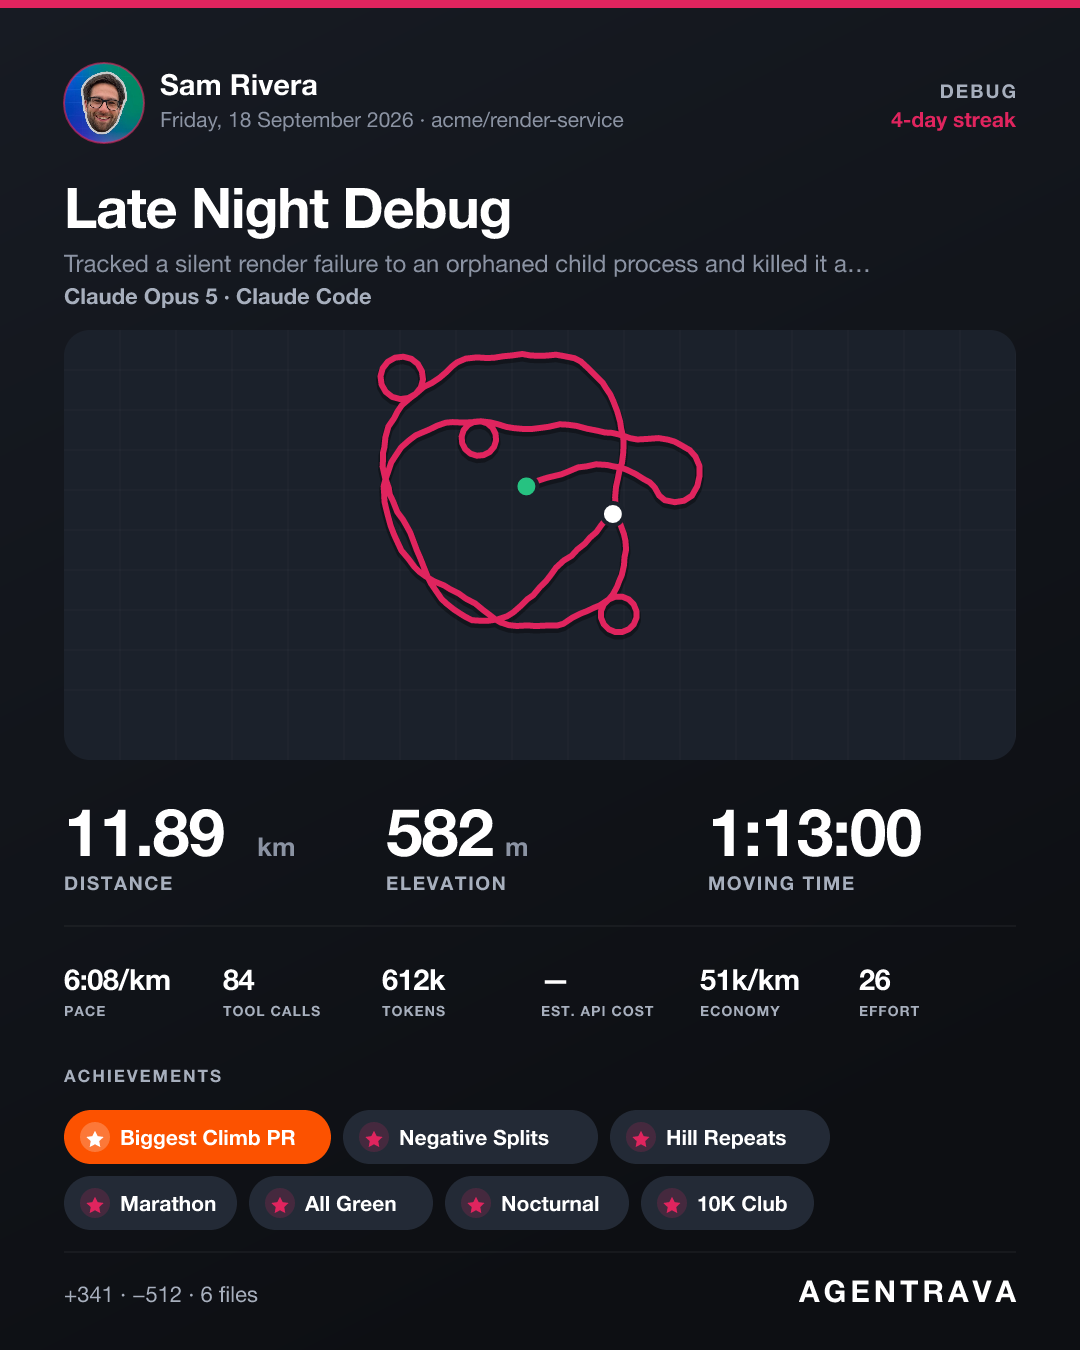
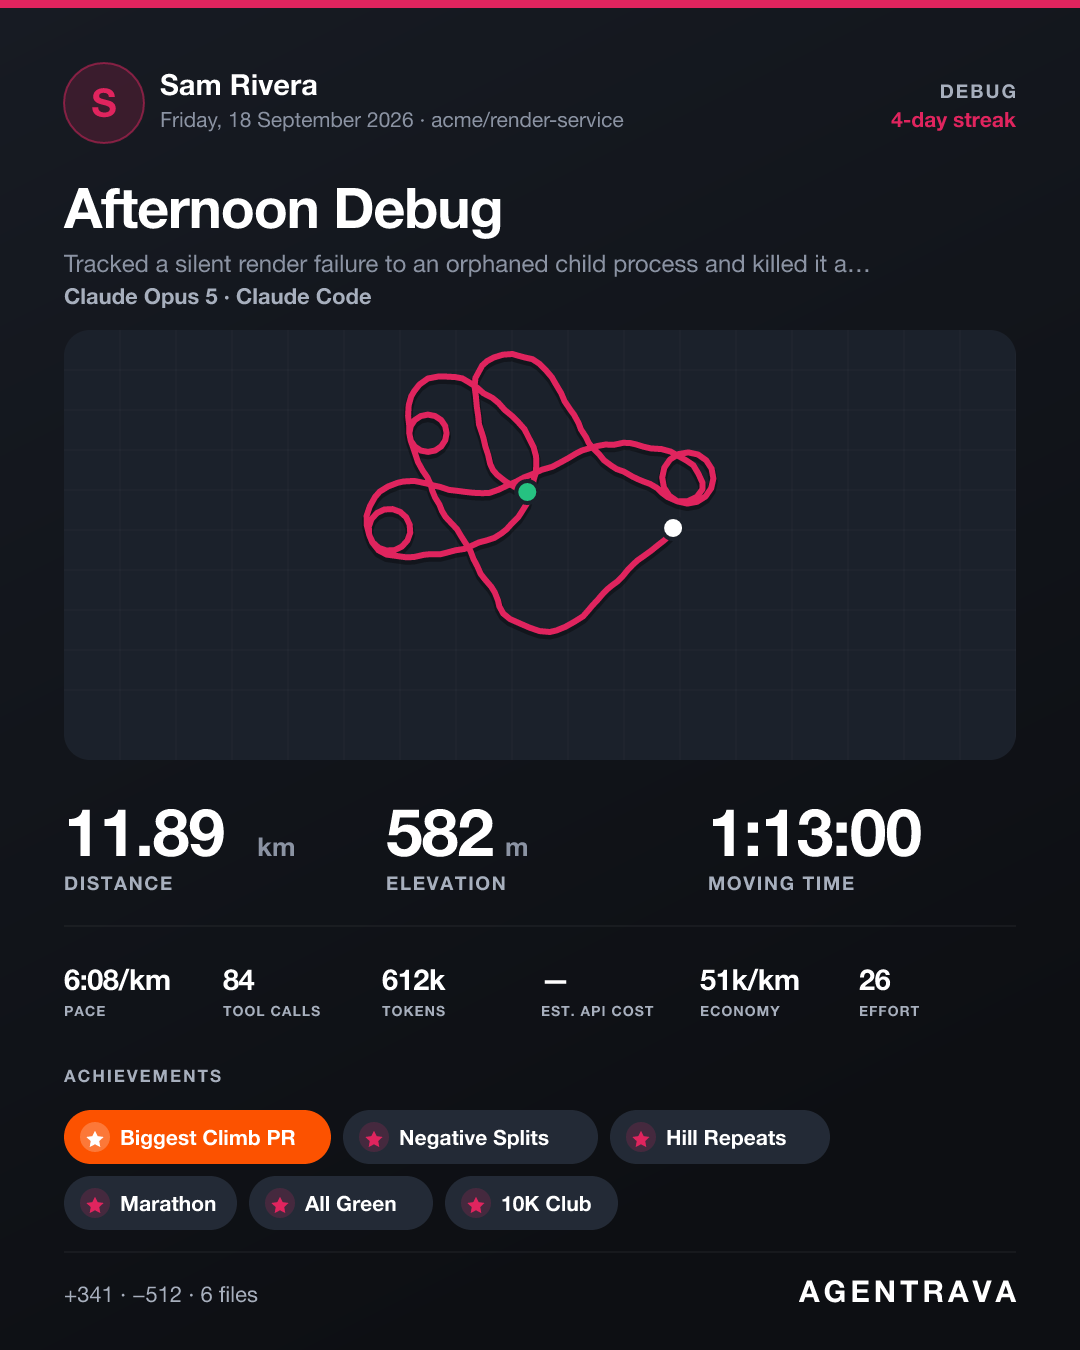
Generate published examples in isolation
The demo renders the images committed to docs/, but the renderers read config
for the athlete name and avatar — so once an avatar was set locally, the
synthetic "Sam Rivera" examples in the README were rendered with the local
user's profile picture, and those PNGs were committed.

The demo now runs against a throwaway AGENTRAVA_HOME, set before any import
since the store resolves its home at module load, and publishes straight into
docs/ so the committed images cannot drift from the run that made them.

Changed region(s): [[0.3361, 0.2489, 0.6722, 0.4667], [0.0611, 0.0311, 0.4889, 0.1867], [0.4583, 0.8711, 0.7639, 0.9333]]

diff --git a/scripts/demo.js b/scripts/demo.js
@@ -1,12 +1,28 @@
-// Renders a few contrasting cards so layout regressions are obvious.
-import { clean } from '../src/metrics.js';
-import { badgesFor } from '../src/achievements.js';
-import { renderCard } from '../src/card.js';
-import { writeCard } from '../src/render.js';
-import { renderRecap } from '../src/recap.js';
-import { renderWeekly, renderMonthly } from '../src/snap.js';
-import { summarize } from '../src/summary.js';
-import { resolvePeriod, dayKey } from '../src/periods.js';
+// Renders a few contrasting cards so layout regressions are obvious, and
+// generates the images committed to docs/.
+//
+// These are published, so they must not pick up anything local. The renderers
+// read config for the athlete name and the avatar, so the whole demo runs
+// against a throwaway AGENTRAVA_HOME — set before any import, since the store
+// resolves its home at module load. (Without this, the "Sam Rivera" examples
+// quietly rendered with the local user's profile picture.)
+import fs from 'node:fs';
+import os from 'node:os';
+import path from 'node:path';
+
+process.env.AGENTRAVA_HOME = fs.mkdtempSync(path.join(os.tmpdir(), 'agentrava-demo-'));
+
+const { clean } = await import('../src/metrics.js');
+const { badgesFor } = await import('../src/achievements.js');
+const { renderCard } = await import('../src/card.js');
+const { writeCard } = await import('../src/render.js');
+const { renderRecap } = await import('../src/recap.js');
+const { renderWeekly, renderMonthly } = await import('../src/snap.js');
+const { summarize } = await import('../src/summary.js');
+const { resolvePeriod, dayKey } = await import('../src/periods.js');
+
+const DOCS = path.resolve(path.dirname(new URL(import.meta.url).pathname), '..', 'docs');
+const publish = (from, name) => { fs.copyFileSync(from, path.join(DOCS, name)); return `docs/${name}`; };
 
 const SAMPLES = [
   ['demo', { type: 'debug', repo: 'acme/render-service', client: 'claude-code', model: 'Claude Opus 5', athlete: 'Sam Rivera',
@@ -27,7 +43,8 @@ const SAMPLES = [
 for (const [name, input, prs, streak] of SAMPLES) {
   const a = clean(input);
   const out = writeCard(name, renderCard(a, { badges: badgesFor(a), prs, streak }));
-  console.log(out.pngPath, '—', badgesFor(a).map((b) => b.name).join(', ') || '(no badges)');
+  const where = name === 'demo' ? publish(out.pngPath, 'example.png') : out.pngPath;
+  console.log(where, '—', badgesFor(a).map((b) => b.name).join(', ') || '(no badges)');
 }
 
 /* ---------- a synthetic season, so the README never publishes real telemetry ---------- */
@@ -84,7 +101,7 @@ function fakeSeason(n = 140) {
 
 const season = fakeSeason();
 const recap = writeCard('demo-recap', renderRecap(season, { athlete: 'Sam Rivera' }));
-console.log(recap.pngPath, `— synthetic recap, ${season.length} activities`);
+console.log(publish(recap.pngPath, 'recap.png'), `— synthetic recap, ${season.length} activities`);
 
 // Snaps from the same fake season, pinned to fixed periods and a fixed "now" so
 // the committed images only change when the renderer does.
@@ -98,5 +115,5 @@ for (let d = new Date(2026, 5, 1); d < new Date(2026, 7, 31); d.setDate(d.getDat
 const month = summarize(season, resolvePeriod('month', '2026-08'), { now });
 const w = writeCard('demo-weekly', renderWeekly(week, { athlete: 'Sam Rivera' }));
 const m = writeCard('demo-monthly', renderMonthly(month, { athlete: 'Sam Rivera' }));
-console.log(w.pngPath, `— synthetic week: ${week.sessions} sessions, ${week.activeDays} active days`);
-console.log(m.pngPath, `— synthetic month: ${month.sessions} sessions, ${month.activeDays} active days`);
+console.log(publish(w.pngPath, 'weekly.png'), `— synthetic week: ${week.sessions} sessions, ${week.activeDays} active days`);
+console.log(publish(m.pngPath, 'monthly.png'), `— synthetic month: ${month.sessions} sessions, ${month.activeDays} active days`);
